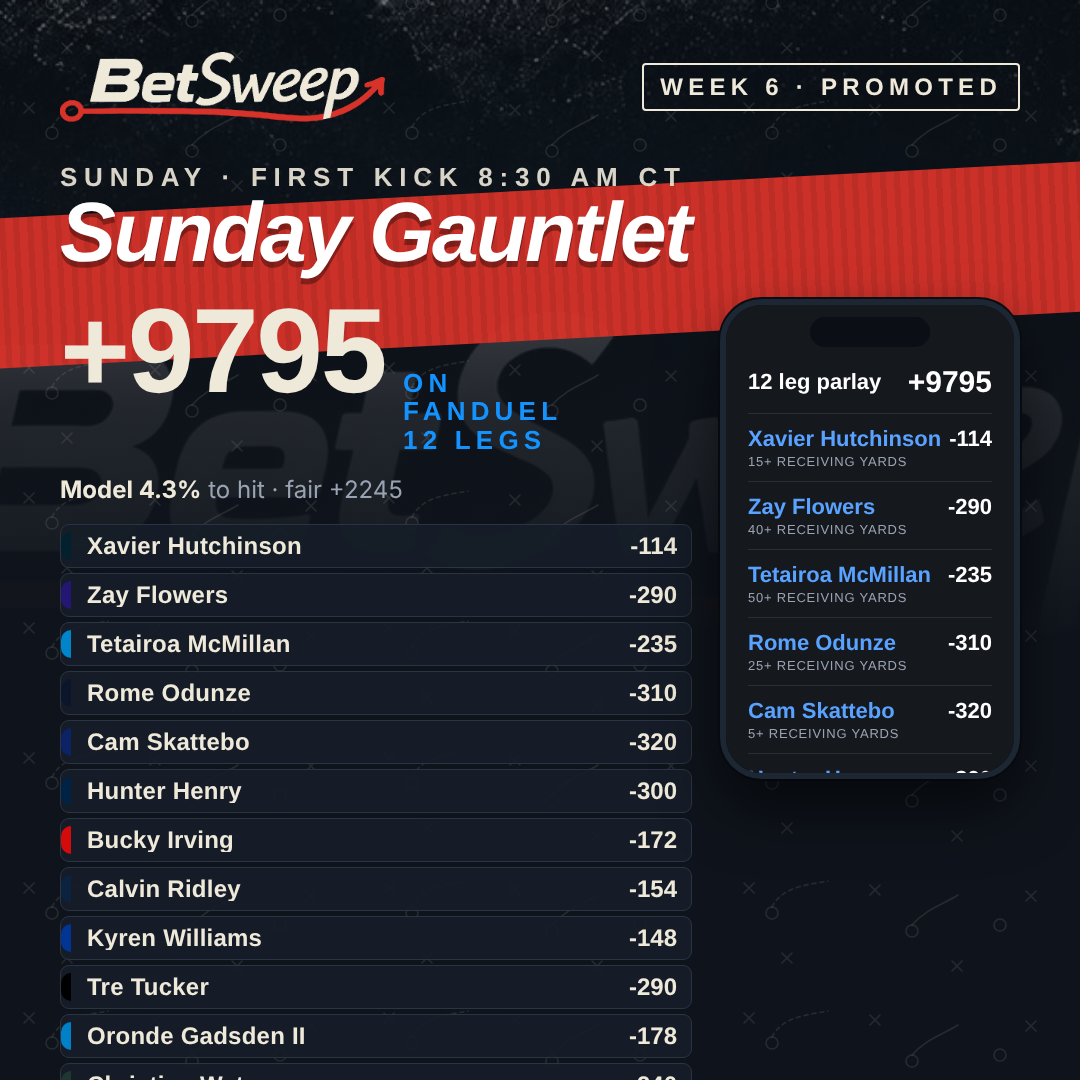
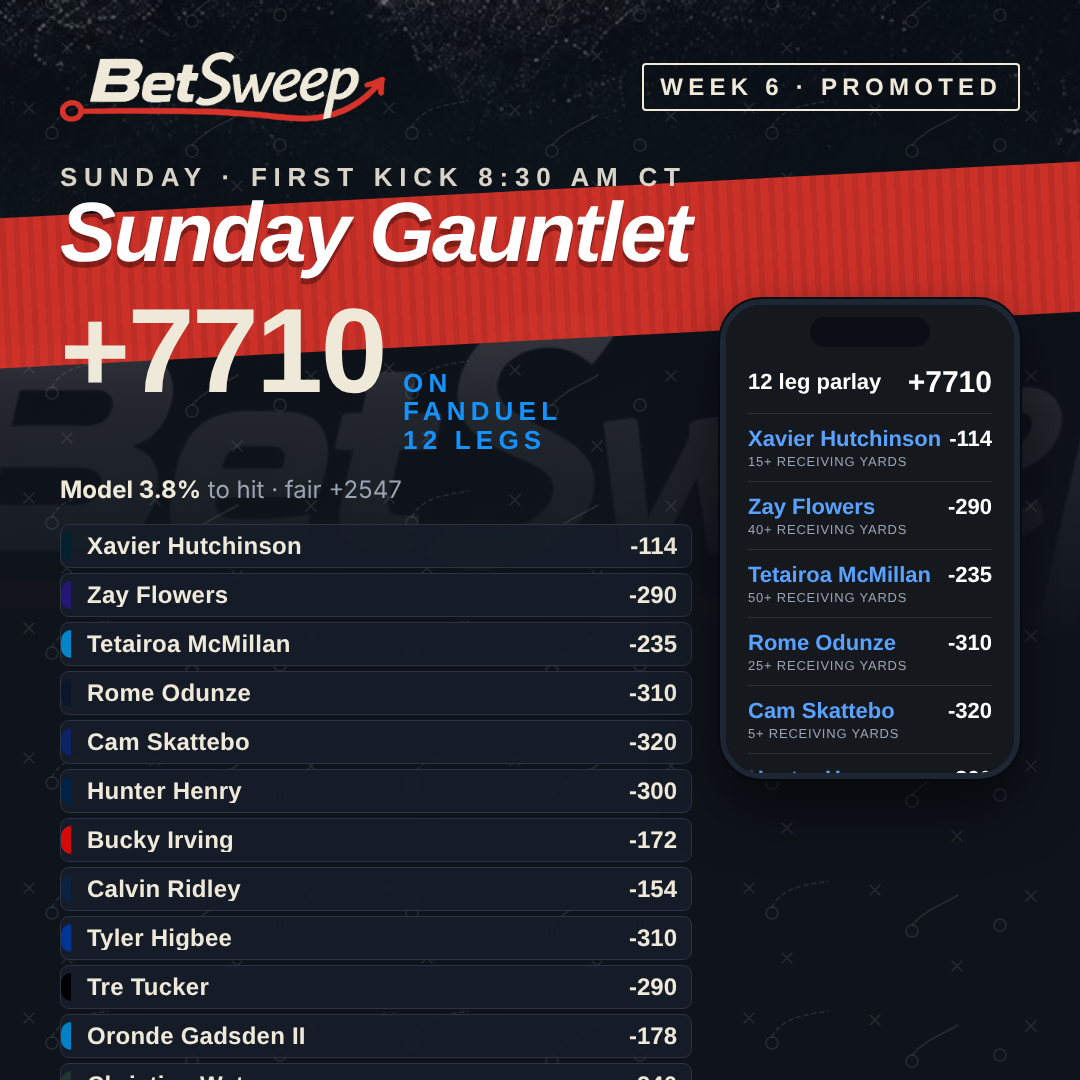
Gauntlet: Higbee 20+ in for Kyren 3+ rec (+7710)
Claude-Session: https://claude.ai/code/session_01Pqo4PUB5f8JqeHqFrErqwg

diff --git a/index.html b/index.html
@@ -179,10 +179,10 @@ body.compact .card:not(.expanded) > .tick:not([hidden]){display:grid}
 <section class="pitch"><div class="card"><img class="mark" src="/favicon.png" alt="">
  <h1>The model's picks, <span>graded against the sportsbooks</span> every week.</h1>
  <p class="lede">BetSweep projects every NFL skill player, prices every FanDuel prop against those projections, and shows you the receipts afterward. Boards land Thursday morning, refresh through Sunday's inactives, and get graded Tuesday.</p>
- <div class="stats"><span><b>Week 6</b> on the board</span><span><b>14</b> games</span><span><b>3,310</b> FanDuel legs priced</span><span>updated Sat 10/17 3:23 PM CT</span></div>
+ <div class="stats"><span><b>Week 6</b> on the board</span><span><b>14</b> games</span><span><b>3,310</b> FanDuel legs priced</span><span>updated Sat 10/17 3:24 PM CT</span></div>
  <div class="social"><a href="https://x.com/bet_sweep" target="_blank" rel="noopener">X <small>@bet_sweep</small></a><a href="https://www.instagram.com/bet_sweep" target="_blank" rel="noopener">Instagram <small>@bet_sweep</small></a></div>
 </div></section>
-<section class="sec" id="promo"><h2 class="t">Promoted bets</h2><div class="promos"><article class="promo" data-first-ko="1792353900000" data-last-ko="1792369200000"><div class="ph"><small>Promoted</small><span class="st" data-role="pst">Pregame</span></div><h3>Sunday TD 4</h3><div class="meta">Week 6 · 4 legs</div><ul class="pl"><li><b>Puka Nacua</b><span class="o">-170</span><small>anytime TD · Sun 3:05 PM · ARI #1 vs WR TDs</small><span class="mp">model 53%</span></li><li><b>Josh Allen</b><span class="o">-175</span><small>anytime TD · Sun 3:25 PM · LV #3 vs QB rush TDs</small><span class="mp">model 56%</span></li><li><b>Kenneth Walker III</b><span class="o">-170</span><small>anytime TD · Sun 3:25 PM · LAC #7 vs RB TDs</small><span class="mp">model 60%</span></li><li><b>Javonte Williams</b><span class="o">-220</span><small>anytime TD · Sun 7:20 PM · GB #2 vs RB TDs</small><span class="mp">model 54%</span></li></ul><div class="pf"><div class="big"><small>FanDuel</small>+477</div><div class="md"><b>Model 9.6%</b> to hit · fair +939<br>Snapshot at post time; prices move.</div></div><p class="cap">Four players walking into the defenses that give up their touchdown the most: Nacua vs ARI (#1 vs WR TDs), Allen at LV (#3 vs QB rush TDs), Walker vs LAC (#7, #3 last three), Javonte at GB (#4). 15-for-17 scoring this season between them.</p><div class="pa"><a class="fd" href="https://sportsbook.fanduel.com/addToBetslip?marketId[0]=42.616225575&amp;selectionId[0]=42127532&amp;marketId[1]=42.616211797&amp;selectionId[1]=12399650&amp;marketId[2]=42.615921213&amp;selectionId[2]=40845134&amp;marketId[3]=42.615900715&amp;selectionId[3]=37101846" target="_blank" rel="noopener">Bet it on FanDuel</a><a href="https://twitter.com/intent/tweet?text=Sunday%20TD%204%20%C2%B7%20FanDuel%20%2B477%0A%E2%80%A2%20Puka%20Nacua%20anytime%20TD%20%28-170%29%0A%E2%80%A2%20Josh%20Allen%20anytime%20TD%20%28-175%29%0A%E2%80%A2%20Kenneth%20Walker%20III%20anytime%20TD%20%28-170%29%0A%E2%80%A2%20Javonte%20Williams%20anytime%20TD%20%28-220%29%0A%0Abetsweep.co" target="_blank" rel="noopener">Share on X</a><a href="/promo/6-1-feed.png" download>Post 4:5</a><a href="/promo/6-1-square.png" download>Square</a><a href="/promo/6-1-story.png" download>Story</a></div></article><article class="promo" data-first-ko="1792330200000" data-last-ko="1792369200000"><div class="ph"><small>Promoted</small><span class="st" data-role="pst">Pregame</span></div><h3>Sunday Either/Or 11</h3><div class="meta">Week 6 · 11 legs</div><ul class="pl many"><li><b>Bhayshul Tuten or Woody Marks</b><span class="o">-220</span><small>either scores a TD · Sun 8:30 AM</small><span class="mp">model 63%</span></li><li><b>Rhamondre Stevenson or Garrett Wilson</b><span class="o">-310</span><small>either scores a TD · Sun 12:00 PM</small><span class="mp">model 58%</span></li><li><b>Bucky Irving or Jaylen Warren</b><span class="o">-210</span><small>either scores a TD · Sun 12:00 PM</small><span class="mp">model 67%</span></li><li><b>Cam Skattebo or Juwan Johnson</b><span class="o">-185</span><small>either scores a TD · Sun 12:00 PM</small><span class="mp">model 60%</span></li><li><b>Drake London or D&#x27;Andre Swift</b><span class="o">-475</span><small>either scores a TD · Sun 12:00 PM</small><span class="mp">model 71%</span></li><li><b>DeVonta Smith or Chuba Hubbard</b><span class="o">-195</span><small>either scores a TD · Sun 12:00 PM</small><span class="mp">model 67%</span></li><li><b>Harold Fannin Jr. or Derrick Henry</b><span class="o">-270</span><small>either scores a TD · Sun 12:00 PM</small><span class="mp">model 72%</span></li><li><b>Trey McBride or Michael Wilson</b><span class="o">-160</span><small>either scores a TD · Sun 3:05 PM</small><span class="mp">model 68%</span></li><li><b>Ashton Jeanty or James Cook</b><span class="o">-500</span><small>either scores a TD · Sun 3:25 PM</small><span class="mp">model 75%</span></li><li><b>Kenneth Walker III or Omarion Hampton</b><span class="o">-260</span><small>either scores a TD · Sun 3:25 PM</small><span class="mp">model 77%</span></li><li><b>Tucker Kraft or CeeDee Lamb</b><span class="o">-185</span><small>either scores a TD · Sun 7:20 PM</small><span class="mp">model 62%</span></li></ul><div class="pf"><div class="big"><small>FanDuel</small>+4466</div><div class="md"><b>Model 1.2%</b> to hit · fair +7957<br>Snapshot at post time; prices move.</div></div><p class="cap">One either/or touchdown from every Sunday game, each pair picked so one of the two is still the likely scorer whichever way the game goes. Eleven legs, +4466.</p><div class="pa"><a class="fd" href="https://sportsbook.fanduel.com/addToBetslip?shareCode=mR7QhDR" target="_blank" rel="noopener">Bet it on FanDuel</a><a href="https://twitter.com/intent/tweet?text=Sunday%20Either/Or%2011%20%C2%B7%20FanDuel%20%2B4466%0A%E2%80%A2%20Bhayshul%20Tuten%20or%20Woody%20Marks%20either%20scores%20a%20TD%20%28-220%29%0A%E2%80%A2%20Rhamondre%20Stevenson%20or%20Garrett%20Wilson%20either%20scores%20a%20TD%20%28-310%29%0A%E2%80%A2%20Bucky%20Irving%20or%20Jaylen%20Warren%20either%20scores%20a%20TD%20%28-210%29%0A%E2%80%A2%20Cam%20Skattebo%20or%20Juwan%20Johnson%20either%20scores%20a%20TD%20%28-185%29%0A%E2%80%A2%20Drake%20London%20or%20D%27Andre%20Swift%20either%20scores%20a%20TD%20%28-475%29%0A%E2%80%A2%20DeVonta%20Smith%20or%20Chuba%20Hubbard%20either%20scores%20a%20TD%20%28-195%29%0A%E2%80%A2%20Harold%20Fannin%20Jr.%20or%20Derrick%20Henry%20either%20scores%20a%20TD%20%28-270%29%0A%E2%80%A2%20Trey%20McBride%20or%20Michael%20Wilson%20either%20scores%20a%20TD%20%28-160%29%0A%E2%80%A2%20Ashton%20Jeanty%20or%20James%20Cook%20either%20scores%20a%20TD%20%28-500%29%0A%E2%80%A2%20Kenneth%20Walker%20III%20or%20Omarion%20Hampton%20either%20scores%20a%20TD%20%28-260%29%0A%E2%80%A2%20Tucker%20Kraft%20or%20CeeDee%20Lamb%20either%20scores%20a%20TD%20%28-185%29%0A%0Abetsweep.co" target="_blank" rel="noopener">Share on X</a><a href="/promo/6-2-feed.png" download>Post 4:5</a><a href="/promo/6-2-square.png" download>Square</a><a href="/promo/6-2-story.png" download>Story</a></div></article><article class="promo" data-first-ko="1792342800000" data-last-ko="1792355100000"><div class="ph"><small>Promoted</small><span class="st" data-role="pst">Pregame</span></div><h3>Sunday Floor 6</h3><div class="meta">Week 6 · 6 legs</div><ul class="pl"><li><b>Justice Hill</b><span class="o">-154</span><small>10+ rushing yards · Sun 12:00 PM</small><span class="mp">model 73%</span></li><li><b>Makai Lemon</b><span class="o">-205</span><small>2+ receptions · Sun 12:00 PM</small><span class="mp">model 73%</span></li><li><b>Elic Ayomanor</b><span class="o">-340</span><small>5+ receiving yards · Sun 12:00 PM</small><span class="mp">model 86%</span></li><li><b>Juwan Johnson</b><span class="o">-330</span><small>25+ receiving yards · Sun 12:00 PM</small><span class="mp">model 75%</span></li><li><b>Bucky Irving</b><span class="o">-290</span><small>5+ receiving yards · Sun 12:00 PM</small><span class="mp">model 78%</span></li><li><b>Cyrus Allen</b><span class="o">-154</span><small>10+ receiving yards · Sun 3:25 PM</small><span class="mp">model 30%</span></li></ul><div class="pf"><div class="big"><small>FanDuel</small>+786</div><div class="md"><b>Model 8.1%</b> to hit · fair +1137<br>Snapshot at post time; prices move.</div></div><p class="cap">Six legs, one game each, matchup first: Hill vs a #7 RB-rush defense, Lemon 2+ catches (4 of 5), Ayomanor 5+ (5 of 5), Juwan Johnson 25+ (4 of 5, all 53+), Irving 5+ receiving vs the #5 defense for RB catches, and the swing: Cyrus Allen into Rashee Rice&#x27;s and Tyquan Thornton&#x27;s snaps. Five the data likes, one we like.</p><div class="pa"><a class="fd" href="https://sportsbook.fanduel.com/addToBetslip?marketId[0]=42.617002810&amp;selectionId[0]=73482232&amp;marketId[1]=42.617048983&amp;selectionId[1]=102621408&amp;marketId[2]=42.616250683&amp;selectionId[2]=88090459&amp;marketId[3]=42.616234261&amp;selectionId[3]=41092174&amp;marketId[4]=42.616465975&amp;selectionId[4]=73619340&amp;marketId[5]=42.616848381&amp;selectionId[5]=102831608" target="_blank" rel="noopener">Bet it on FanDuel</a><a href="https://twitter.com/intent/tweet?text=Sunday%20Floor%206%20%C2%B7%20FanDuel%20%2B786%0A%E2%80%A2%20Justice%20Hill%2010%2B%20rushing%20yards%20%28-154%29%0A%E2%80%A2%20Makai%20Lemon%202%2B%20receptions%20%28-205%29%0A%E2%80%A2%20Elic%20Ayomanor%205%2B%20receiving%20yards%20%28-340%29%0A%E2%80%A2%20Juwan%20Johnson%2025%2B%20receiving%20yards%20%28-330%29%0A%E2%80%A2%20Bucky%20Irving%205%2B%20receiving%20yards%20%28-290%29%0A%E2%80%A2%20Cyrus%20Allen%2010%2B%20receiving%20yards%20%28-154%29%0A%0Abetsweep.co" target="_blank" rel="noopener">Share on X</a><a href="/promo/6-3-feed.png" download>Post 4:5</a><a href="/promo/6-3-square.png" download>Square</a><a href="/promo/6-3-story.png" download>Story</a></div></article><article class="promo" data-first-ko="1792330200000" data-last-ko="1792369200000"><div class="ph"><small>Promoted</small><span class="st" data-role="pst">Pregame</span></div><h3>Sunday Gauntlet</h3><div class="meta">Week 6 · 12 legs</div><ul class="pl many"><li><b>Xavier Hutchinson</b><span class="o">-114</span><small>15+ receiving yards · Sun 8:30 AM</small><span class="mp">model 74%</span></li><li><b>Zay Flowers</b><span class="o">-290</span><small>40+ receiving yards · Sun 12:00 PM</small><span class="mp">model 88%</span></li><li><b>Tetairoa McMillan</b><span class="o">-235</span><small>50+ receiving yards · Sun 12:00 PM</small><span class="mp">model 72%</span></li><li><b>Rome Odunze</b><span class="o">-310</span><small>25+ receiving yards · Sun 12:00 PM</small><span class="mp">model 79%</span></li><li><b>Cam Skattebo</b><span class="o">-320</span><small>5+ receiving yards · Sun 12:00 PM</small><span class="mp">model 78%</span></li><li><b>Hunter Henry</b><span class="o">-300</span><small>20+ receiving yards · Sun 12:00 PM</small><span class="mp">model 72%</span></li><li><b>Bucky Irving</b><span class="o">-172</span><small>2+ receptions · Sun 12:00 PM</small><span class="mp">model 74%</span></li><li><b>Calvin Ridley</b><span class="o">-154</span><small>10+ receiving yards · Sun 12:00 PM</small><span class="mp">model 79%</span></li><li><b>Kyren Williams</b><span class="o">-148</span><small>3+ receptions · Sun 3:05 PM</small><span class="mp">model 82%</span></li><li><b>Tre Tucker</b><span class="o">-290</span><small>25+ receiving yards · Sun 3:25 PM</small><span class="mp">model 75%</span></li><li><b>Oronde Gadsden II</b><span class="o">-178</span><small>10+ receiving yards · Sun 3:25 PM</small><span class="mp">model 80%</span></li><li><b>Christian Watson</b><span class="o">-340</span><small>50+ receiving yards · Sun 7:20 PM</small><span class="mp">model 72%</span></li></ul><div class="pf"><div class="big"><small>FanDuel</small>+9795</div><div class="md"><b>Model 4.3%</b> to hit · fair +2245<br>Snapshot at post time; prices move.</div></div><p class="cap">Twelve games, twelve legs, one from each. Every leg had to clear the same bar: model 70%+, a matchup or a projection well above the line, hit in 3 of the last 5, no flags. Likely legs stacked into a moonshot.</p><div class="pa"><a class="fd" href="https://sportsbook.fanduel.com/addToBetslip?marketId[0]=42.616785753&amp;selectionId[0]=41075117&amp;marketId[1]=42.617002812&amp;selectionId[1]=49181571&amp;marketId[2]=42.616529867&amp;selectionId[2]=50573817&amp;marketId[3]=42.616120846&amp;selectionId[3]=48587070&amp;marketId[4]=42.616234258&amp;selectionId[4]=88246532&amp;marketId[5]=42.616815477&amp;selectionId[5]=73619949&amp;marketId[6]=42.616465976&amp;selectionId[6]=49541847&amp;marketId[7]=42.616250682&amp;selectionId[7]=71942749&amp;marketId[8]=42.616234766&amp;selectionId[8]=61449492&amp;marketId[9]=42.616214164&amp;selectionId[9]=49640102&amp;marketId[10]=42.616849025&amp;selectionId[10]=89154789&amp;marketId[11]=42.615901996&amp;selectionId[11]=48614471" target="_blank" rel="noopener">Bet it on FanDuel</a><a href="https://twitter.com/intent/tweet?text=Sunday%20Gauntlet%20%C2%B7%20FanDuel%20%2B9795%0A%E2%80%A2%20Xavier%20Hutchinson%2015%2B%20receiving%20yards%20%28-114%29%0A%E2%80%A2%20Zay%20Flowers%2040%2B%20receiving%20yards%20%28-290%29%0A%E2%80%A2%20Tetairoa%20McMillan%2050%2B%20receiving%20yards%20%28-235%29%0A%E2%80%A2%20Rome%20Odunze%2025%2B%20receiving%20yards%20%28-310%29%0A%E2%80%A2%20Cam%20Skattebo%205%2B%20receiving%20yards%20%28-320%29%0A%E2%80%A2%20Hunter%20Henry%2020%2B%20receiving%20yards%20%28-300%29%0A%E2%80%A2%20Bucky%20Irving%202%2B%20receptions%20%28-172%29%0A%E2%80%A2%20Calvin%20Ridley%2010%2B%20receiving%20yards%20%28-154%29%0A%E2%80%A2%20Kyren%20Williams%203%2B%20receptions%20%28-148%29%0A%E2%80%A2%20Tre%20Tucker%2025%2B%20receiving%20yards%20%28-290%29%0A%E2%80%A2%20Oronde%20Gadsden%20II%2010%2B%20receiving%20yards%20%28-178%29%0A%E2%80%A2%20Christian%20Watson%2050%2B%20receiving%20yards%20%28-340%29%0A%0Abetsweep.co" target="_blank" rel="noopener">Share on X</a><a href="/promo/6-4-feed.png" download>Post 4:5</a><a href="/promo/6-4-square.png" download>Square</a><a href="/promo/6-4-story.png" download>Story</a></div></article></div><p class="none" style="margin-top:8px;font-size:12.5px">The slips we post on X and Instagram, graded Tuesday like everything else. One tap loads the whole slip on FanDuel.</p></section>
+<section class="sec" id="promo"><h2 class="t">Promoted bets</h2><div class="promos"><article class="promo" data-first-ko="1792353900000" data-last-ko="1792369200000"><div class="ph"><small>Promoted</small><span class="st" data-role="pst">Pregame</span></div><h3>Sunday TD 4</h3><div class="meta">Week 6 · 4 legs</div><ul class="pl"><li><b>Puka Nacua</b><span class="o">-170</span><small>anytime TD · Sun 3:05 PM · ARI #1 vs WR TDs</small><span class="mp">model 53%</span></li><li><b>Josh Allen</b><span class="o">-175</span><small>anytime TD · Sun 3:25 PM · LV #3 vs QB rush TDs</small><span class="mp">model 56%</span></li><li><b>Kenneth Walker III</b><span class="o">-170</span><small>anytime TD · Sun 3:25 PM · LAC #7 vs RB TDs</small><span class="mp">model 60%</span></li><li><b>Javonte Williams</b><span class="o">-220</span><small>anytime TD · Sun 7:20 PM · GB #2 vs RB TDs</small><span class="mp">model 54%</span></li></ul><div class="pf"><div class="big"><small>FanDuel</small>+477</div><div class="md"><b>Model 9.6%</b> to hit · fair +939<br>Snapshot at post time; prices move.</div></div><p class="cap">Four players walking into the defenses that give up their touchdown the most: Nacua vs ARI (#1 vs WR TDs), Allen at LV (#3 vs QB rush TDs), Walker vs LAC (#7, #3 last three), Javonte at GB (#4). 15-for-17 scoring this season between them.</p><div class="pa"><a class="fd" href="https://sportsbook.fanduel.com/addToBetslip?marketId[0]=42.616225575&amp;selectionId[0]=42127532&amp;marketId[1]=42.616211797&amp;selectionId[1]=12399650&amp;marketId[2]=42.615921213&amp;selectionId[2]=40845134&amp;marketId[3]=42.615900715&amp;selectionId[3]=37101846" target="_blank" rel="noopener">Bet it on FanDuel</a><a href="https://twitter.com/intent/tweet?text=Sunday%20TD%204%20%C2%B7%20FanDuel%20%2B477%0A%E2%80%A2%20Puka%20Nacua%20anytime%20TD%20%28-170%29%0A%E2%80%A2%20Josh%20Allen%20anytime%20TD%20%28-175%29%0A%E2%80%A2%20Kenneth%20Walker%20III%20anytime%20TD%20%28-170%29%0A%E2%80%A2%20Javonte%20Williams%20anytime%20TD%20%28-220%29%0A%0Abetsweep.co" target="_blank" rel="noopener">Share on X</a><a href="/promo/6-1-feed.png" download>Post 4:5</a><a href="/promo/6-1-square.png" download>Square</a><a href="/promo/6-1-story.png" download>Story</a></div></article><article class="promo" data-first-ko="1792330200000" data-last-ko="1792369200000"><div class="ph"><small>Promoted</small><span class="st" data-role="pst">Pregame</span></div><h3>Sunday Either/Or 11</h3><div class="meta">Week 6 · 11 legs</div><ul class="pl many"><li><b>Bhayshul Tuten or Woody Marks</b><span class="o">-220</span><small>either scores a TD · Sun 8:30 AM</small><span class="mp">model 63%</span></li><li><b>Rhamondre Stevenson or Garrett Wilson</b><span class="o">-310</span><small>either scores a TD · Sun 12:00 PM</small><span class="mp">model 58%</span></li><li><b>Bucky Irving or Jaylen Warren</b><span class="o">-210</span><small>either scores a TD · Sun 12:00 PM</small><span class="mp">model 67%</span></li><li><b>Cam Skattebo or Juwan Johnson</b><span class="o">-185</span><small>either scores a TD · Sun 12:00 PM</small><span class="mp">model 60%</span></li><li><b>Drake London or D&#x27;Andre Swift</b><span class="o">-475</span><small>either scores a TD · Sun 12:00 PM</small><span class="mp">model 71%</span></li><li><b>DeVonta Smith or Chuba Hubbard</b><span class="o">-195</span><small>either scores a TD · Sun 12:00 PM</small><span class="mp">model 67%</span></li><li><b>Harold Fannin Jr. or Derrick Henry</b><span class="o">-270</span><small>either scores a TD · Sun 12:00 PM</small><span class="mp">model 72%</span></li><li><b>Trey McBride or Michael Wilson</b><span class="o">-160</span><small>either scores a TD · Sun 3:05 PM</small><span class="mp">model 68%</span></li><li><b>Ashton Jeanty or James Cook</b><span class="o">-500</span><small>either scores a TD · Sun 3:25 PM</small><span class="mp">model 75%</span></li><li><b>Kenneth Walker III or Omarion Hampton</b><span class="o">-260</span><small>either scores a TD · Sun 3:25 PM</small><span class="mp">model 77%</span></li><li><b>Tucker Kraft or CeeDee Lamb</b><span class="o">-185</span><small>either scores a TD · Sun 7:20 PM</small><span class="mp">model 62%</span></li></ul><div class="pf"><div class="big"><small>FanDuel</small>+4466</div><div class="md"><b>Model 1.2%</b> to hit · fair +7957<br>Snapshot at post time; prices move.</div></div><p class="cap">One either/or touchdown from every Sunday game, each pair picked so one of the two is still the likely scorer whichever way the game goes. Eleven legs, +4466.</p><div class="pa"><a class="fd" href="https://sportsbook.fanduel.com/addToBetslip?shareCode=mR7QhDR" target="_blank" rel="noopener">Bet it on FanDuel</a><a href="https://twitter.com/intent/tweet?text=Sunday%20Either/Or%2011%20%C2%B7%20FanDuel%20%2B4466%0A%E2%80%A2%20Bhayshul%20Tuten%20or%20Woody%20Marks%20either%20scores%20a%20TD%20%28-220%29%0A%E2%80%A2%20Rhamondre%20Stevenson%20or%20Garrett%20Wilson%20either%20scores%20a%20TD%20%28-310%29%0A%E2%80%A2%20Bucky%20Irving%20or%20Jaylen%20Warren%20either%20scores%20a%20TD%20%28-210%29%0A%E2%80%A2%20Cam%20Skattebo%20or%20Juwan%20Johnson%20either%20scores%20a%20TD%20%28-185%29%0A%E2%80%A2%20Drake%20London%20or%20D%27Andre%20Swift%20either%20scores%20a%20TD%20%28-475%29%0A%E2%80%A2%20DeVonta%20Smith%20or%20Chuba%20Hubbard%20either%20scores%20a%20TD%20%28-195%29%0A%E2%80%A2%20Harold%20Fannin%20Jr.%20or%20Derrick%20Henry%20either%20scores%20a%20TD%20%28-270%29%0A%E2%80%A2%20Trey%20McBride%20or%20Michael%20Wilson%20either%20scores%20a%20TD%20%28-160%29%0A%E2%80%A2%20Ashton%20Jeanty%20or%20James%20Cook%20either%20scores%20a%20TD%20%28-500%29%0A%E2%80%A2%20Kenneth%20Walker%20III%20or%20Omarion%20Hampton%20either%20scores%20a%20TD%20%28-260%29%0A%E2%80%A2%20Tucker%20Kraft%20or%20CeeDee%20Lamb%20either%20scores%20a%20TD%20%28-185%29%0A%0Abetsweep.co" target="_blank" rel="noopener">Share on X</a><a href="/promo/6-2-feed.png" download>Post 4:5</a><a href="/promo/6-2-square.png" download>Square</a><a href="/promo/6-2-story.png" download>Story</a></div></article><article class="promo" data-first-ko="1792342800000" data-last-ko="1792355100000"><div class="ph"><small>Promoted</small><span class="st" data-role="pst">Pregame</span></div><h3>Sunday Floor 6</h3><div class="meta">Week 6 · 6 legs</div><ul class="pl"><li><b>Justice Hill</b><span class="o">-154</span><small>10+ rushing yards · Sun 12:00 PM</small><span class="mp">model 73%</span></li><li><b>Makai Lemon</b><span class="o">-205</span><small>2+ receptions · Sun 12:00 PM</small><span class="mp">model 73%</span></li><li><b>Elic Ayomanor</b><span class="o">-340</span><small>5+ receiving yards · Sun 12:00 PM</small><span class="mp">model 86%</span></li><li><b>Juwan Johnson</b><span class="o">-330</span><small>25+ receiving yards · Sun 12:00 PM</small><span class="mp">model 75%</span></li><li><b>Bucky Irving</b><span class="o">-290</span><small>5+ receiving yards · Sun 12:00 PM</small><span class="mp">model 78%</span></li><li><b>Cyrus Allen</b><span class="o">-154</span><small>10+ receiving yards · Sun 3:25 PM</small><span class="mp">model 30%</span></li></ul><div class="pf"><div class="big"><small>FanDuel</small>+786</div><div class="md"><b>Model 8.1%</b> to hit · fair +1137<br>Snapshot at post time; prices move.</div></div><p class="cap">Six legs, one game each, matchup first: Hill vs a #7 RB-rush defense, Lemon 2+ catches (4 of 5), Ayomanor 5+ (5 of 5), Juwan Johnson 25+ (4 of 5, all 53+), Irving 5+ receiving vs the #5 defense for RB catches, and the swing: Cyrus Allen into Rashee Rice&#x27;s and Tyquan Thornton&#x27;s snaps. Five the data likes, one we like.</p><div class="pa"><a class="fd" href="https://sportsbook.fanduel.com/addToBetslip?marketId[0]=42.617002810&amp;selectionId[0]=73482232&amp;marketId[1]=42.617048983&amp;selectionId[1]=102621408&amp;marketId[2]=42.616250683&amp;selectionId[2]=88090459&amp;marketId[3]=42.616234261&amp;selectionId[3]=41092174&amp;marketId[4]=42.616465975&amp;selectionId[4]=73619340&amp;marketId[5]=42.616848381&amp;selectionId[5]=102831608" target="_blank" rel="noopener">Bet it on FanDuel</a><a href="https://twitter.com/intent/tweet?text=Sunday%20Floor%206%20%C2%B7%20FanDuel%20%2B786%0A%E2%80%A2%20Justice%20Hill%2010%2B%20rushing%20yards%20%28-154%29%0A%E2%80%A2%20Makai%20Lemon%202%2B%20receptions%20%28-205%29%0A%E2%80%A2%20Elic%20Ayomanor%205%2B%20receiving%20yards%20%28-340%29%0A%E2%80%A2%20Juwan%20Johnson%2025%2B%20receiving%20yards%20%28-330%29%0A%E2%80%A2%20Bucky%20Irving%205%2B%20receiving%20yards%20%28-290%29%0A%E2%80%A2%20Cyrus%20Allen%2010%2B%20receiving%20yards%20%28-154%29%0A%0Abetsweep.co" target="_blank" rel="noopener">Share on X</a><a href="/promo/6-3-feed.png" download>Post 4:5</a><a href="/promo/6-3-square.png" download>Square</a><a href="/promo/6-3-story.png" download>Story</a></div></article><article class="promo" data-first-ko="1792330200000" data-last-ko="1792369200000"><div class="ph"><small>Promoted</small><span class="st" data-role="pst">Pregame</span></div><h3>Sunday Gauntlet</h3><div class="meta">Week 6 · 12 legs</div><ul class="pl many"><li><b>Xavier Hutchinson</b><span class="o">-114</span><small>15+ receiving yards · Sun 8:30 AM</small><span class="mp">model 74%</span></li><li><b>Zay Flowers</b><span class="o">-290</span><small>40+ receiving yards · Sun 12:00 PM</small><span class="mp">model 88%</span></li><li><b>Tetairoa McMillan</b><span class="o">-235</span><small>50+ receiving yards · Sun 12:00 PM</small><span class="mp">model 72%</span></li><li><b>Rome Odunze</b><span class="o">-310</span><small>25+ receiving yards · Sun 12:00 PM</small><span class="mp">model 79%</span></li><li><b>Cam Skattebo</b><span class="o">-320</span><small>5+ receiving yards · Sun 12:00 PM</small><span class="mp">model 78%</span></li><li><b>Hunter Henry</b><span class="o">-300</span><small>20+ receiving yards · Sun 12:00 PM</small><span class="mp">model 72%</span></li><li><b>Bucky Irving</b><span class="o">-172</span><small>2+ receptions · Sun 12:00 PM</small><span class="mp">model 74%</span></li><li><b>Calvin Ridley</b><span class="o">-154</span><small>10+ receiving yards · Sun 12:00 PM</small><span class="mp">model 79%</span></li><li><b>Tyler Higbee</b><span class="o">-310</span><small>20+ receiving yards · Sun 3:05 PM</small><span class="mp">model 72%</span></li><li><b>Tre Tucker</b><span class="o">-290</span><small>25+ receiving yards · Sun 3:25 PM</small><span class="mp">model 75%</span></li><li><b>Oronde Gadsden II</b><span class="o">-178</span><small>10+ receiving yards · Sun 3:25 PM</small><span class="mp">model 80%</span></li><li><b>Christian Watson</b><span class="o">-340</span><small>50+ receiving yards · Sun 7:20 PM</small><span class="mp">model 72%</span></li></ul><div class="pf"><div class="big"><small>FanDuel</small>+7710</div><div class="md"><b>Model 3.8%</b> to hit · fair +2547<br>Snapshot at post time; prices move.</div></div><p class="cap">Twelve games, twelve legs, one from each. Every leg had to clear the same bar: model 70%+, a matchup or a projection well above the line, hit in 3 of the last 5, no flags. Likely legs stacked into a moonshot.</p><div class="pa"><a class="fd" href="https://sportsbook.fanduel.com/addToBetslip?marketId[0]=42.616785753&amp;selectionId[0]=41075117&amp;marketId[1]=42.617002812&amp;selectionId[1]=49181571&amp;marketId[2]=42.616529867&amp;selectionId[2]=50573817&amp;marketId[3]=42.616120846&amp;selectionId[3]=48587070&amp;marketId[4]=42.616234258&amp;selectionId[4]=88246532&amp;marketId[5]=42.616815477&amp;selectionId[5]=73619949&amp;marketId[6]=42.616465976&amp;selectionId[6]=49541847&amp;marketId[7]=42.616250682&amp;selectionId[7]=71942749&amp;marketId[8]=42.616234749&amp;selectionId[8]=78711104&amp;marketId[9]=42.616214164&amp;selectionId[9]=49640102&amp;marketId[10]=42.616849025&amp;selectionId[10]=89154789&amp;marketId[11]=42.615901996&amp;selectionId[11]=48614471" target="_blank" rel="noopener">Bet it on FanDuel</a><a href="https://twitter.com/intent/tweet?text=Sunday%20Gauntlet%20%C2%B7%20FanDuel%20%2B7710%0A%E2%80%A2%20Xavier%20Hutchinson%2015%2B%20receiving%20yards%20%28-114%29%0A%E2%80%A2%20Zay%20Flowers%2040%2B%20receiving%20yards%20%28-290%29%0A%E2%80%A2%20Tetairoa%20McMillan%2050%2B%20receiving%20yards%20%28-235%29%0A%E2%80%A2%20Rome%20Odunze%2025%2B%20receiving%20yards%20%28-310%29%0A%E2%80%A2%20Cam%20Skattebo%205%2B%20receiving%20yards%20%28-320%29%0A%E2%80%A2%20Hunter%20Henry%2020%2B%20receiving%20yards%20%28-300%29%0A%E2%80%A2%20Bucky%20Irving%202%2B%20receptions%20%28-172%29%0A%E2%80%A2%20Calvin%20Ridley%2010%2B%20receiving%20yards%20%28-154%29%0A%E2%80%A2%20Tyler%20Higbee%2020%2B%20receiving%20yards%20%28-310%29%0A%E2%80%A2%20Tre%20Tucker%2025%2B%20receiving%20yards%20%28-290%29%0A%E2%80%A2%20Oronde%20Gadsden%20II%2010%2B%20receiving%20yards%20%28-178%29%0A%E2%80%A2%20Christian%20Watson%2050%2B%20receiving%20yards%20%28-340%29%0A%0Abetsweep.co" target="_blank" rel="noopener">Share on X</a><a href="/promo/6-4-feed.png" download>Post 4:5</a><a href="/promo/6-4-square.png" download>Square</a><a href="/promo/6-4-story.png" download>Story</a></div></article></div><p class="none" style="margin-top:8px;font-size:12.5px">The slips we post on X and Instagram, graded Tuesday like everything else. One tap loads the whole slip on FanDuel.</p></section>
 <section class="sec" id="plays"><h2 class="t">The model's top plays this week</h2><div class="plays"><article class="play lead" data-gid="HOU-JAX" data-ko="1792330200000"><div class="who"><b>Chris Rodriguez Jr.</b><small>RB · JAX vs HOU · Sun 8:30 AM</small></div><div class="what">16+ rushing yards<span class="odds">-114</span></div><div class="nums"><span><i>Model</i>66%</span><span><i>Price needs</i>53%</span><span class="edge pos"><i>Edge</i>+12</span></div><div class="foot"><span class="hist info">3/5 this season</span><a class="more" href="/build/#g-HOU-JAX">Builder →</a><a class="fdb" href="https://sportsbook.fanduel.com/addToBetslip?marketId=42.615817716&amp;selectionId=41073257" target="_blank" rel="noopener">Add to FanDuel</a></div></article><article class="play " data-gid="ARI-LA" data-ko="1792353900000"><div class="who"><b>Kyren Williams</b><small>RB · LA vs ARI · Sun 3:05 PM</small></div><div class="what">10+ longest reception<span class="odds">-170</span></div><div class="nums"><span><i>Model</i>74%</span><span><i>Price needs</i>63%</span><span class="edge pos"><i>Edge</i>+11</span></div><div class="foot"><span class="hist good">4/5 this season</span><a class="more" href="/build/#g-ARI-LA">Builder →</a><a class="fdb" href="https://sportsbook.fanduel.com/addToBetslip?marketId=42.616234655&amp;selectionId=37101838" target="_blank" rel="noopener">Add to FanDuel</a></div></article><article class="play " data-gid="PIT-TB" data-ko="1792342800000"><div class="who"><b>Bucky Irving</b><small>RB · TB vs PIT · Sun 12:00 PM</small></div><div class="what">2+ receptions<span class="odds">-172</span></div><div class="nums"><span><i>Model</i>74%</span><span><i>Price needs</i>63%</span><span class="edge pos"><i>Edge</i>+11</span></div><div class="foot"><span class="hist good">4/5 this season</span><a class="more" href="/build/#g-PIT-TB">Builder →</a><a class="fdb" href="https://sportsbook.fanduel.com/addToBetslip?marketId=42.616465976&amp;selectionId=49541847" target="_blank" rel="noopener">Add to FanDuel</a></div></article><article class="play " data-gid="BUF-LV" data-ko="1792355100000"><div class="who"><b>Mike Washington Jr.</b><small>RB · LV vs BUF · Sun 3:25 PM</small></div><div class="what">15+ rushing yards<span class="odds">-114</span></div><div class="nums"><span><i>Model</i>63%</span><span><i>Price needs</i>53%</span><span class="edge pos"><i>Edge</i>+10</span></div><div class="foot"><span class="hist info">3/5 this season</span><a class="more" href="/build/#g-BUF-LV">Builder →</a><a class="fdb" href="https://sportsbook.fanduel.com/addToBetslip?marketId=42.616214153&amp;selectionId=102723544" target="_blank" rel="noopener">Add to FanDuel</a></div></article><article class="play " data-gid="HOU-JAX" data-ko="1792330200000"><div class="who"><b>Dalton Schultz</b><small>TE · HOU vs JAX · Sun 8:30 AM</small></div><div class="what">3+ receptions<span class="odds">-260</span></div><div class="nums"><span><i>Model</i>81%</span><span><i>Price needs</i>72%</span><span class="edge pos"><i>Edge</i>+9</span></div><div class="foot"><span class="hist good">4/5 this season</span><a class="more" href="/build/#g-HOU-JAX">Builder →</a><a class="fdb" href="https://sportsbook.fanduel.com/addToBetslip?marketId=42.615828437&amp;selectionId=61437979" target="_blank" rel="noopener">Add to FanDuel</a></div></article><article class="play " data-gid="BAL-CLE" data-ko="1792342800000"><div class="who"><b>Zay Flowers</b><small>WR · BAL vs CLE · Sun 12:00 PM</small></div><div class="what">20+ longest reception<span class="odds">-160</span></div><div class="nums"><span><i>Model</i>69%</span><span><i>Price needs</i>62%</span><span class="edge pos"><i>Edge</i>+7</span></div><div class="foot"><span class="hist info">3/4 this season</span><a class="more" href="/build/#g-BAL-CLE">Builder →</a><a class="fdb" href="https://sportsbook.fanduel.com/addToBetslip?marketId=42.616397629&amp;selectionId=38093936" target="_blank" rel="noopener">Add to FanDuel</a></div></article><article class="play " data-gid="ARI-LA" data-ko="1792353900000"><div class="who"><b>Jacoby Brissett</b><small>QB · ARI vs LA · Sun 3:05 PM</small></div><div class="what">7+ rushing yards<span class="odds">-114</span></div><div class="nums"><span><i>Model</i>60%</span><span><i>Price needs</i>53%</span><span class="edge pos"><i>Edge</i>+7</span></div><div class="foot"><span class="hist good">4/5 this season</span><a class="more" href="/build/#g-ARI-LA">Builder →</a><a class="fdb" href="https://sportsbook.fanduel.com/addToBetslip?marketId=42.616836067&amp;selectionId=14942497" target="_blank" rel="noopener">Add to FanDuel</a></div></article><article class="play " data-gid="ATL-CHI" data-ko="1792342800000"><div class="who"><b>Kalif Raymond</b><small>WR · CHI vs ATL · Sun 12:00 PM</small></div><div class="what">15+ longest reception<span class="odds">-120</span></div><div class="nums"><span><i>Model</i>61%</span><span><i>Price needs</i>55%</span><span class="edge pos"><i>Edge</i>+7</span></div><div class="foot"><span class="hist info">3/5 this season</span><a class="more" href="/build/#g-ATL-CHI">Builder →</a><a class="fdb" href="https://sportsbook.fanduel.com/addToBetslip?marketId=42.616092697&amp;selectionId=14783655" target="_blank" rel="noopener">Add to FanDuel</a></div></article></div><p class="none allstarted" hidden>Every top play has kicked off. The <a href="/live/" style="color:var(--ink)">Live page</a> tracks what is still open; the next slate's plays land after the next rebuild.</p><p class="none" style="margin-top:10px;font-size:12.5px">From the sheet's Best Legs: strong-value lines with no warnings, best line per player. Model % is the projected hit rate; "price needs" is what FanDuel's odds imply; edge is the gap in points.</p></section>
 <section class="sec"><h2 class="t">Also on the radar</h2><div class="subt">Anytime touchdown</div><div class="plays"><article class="play " data-gid="KC-LAC" data-ko="1792355100000"><div class="who"><b>Omarion Hampton</b><small>RB · LAC vs KC · Sun 3:25 PM</small></div><div class="what">Anytime TD<span class="odds">+280</span></div><div class="nums"><span><i>Model</i>39%</span><span><i>Price needs</i>26%</span><span class="edge pos"><i>Edge</i>+13</span></div><div class="foot"><span class="hist info">3/5 this season</span><a class="more" href="/build/#g-KC-LAC">Builder →</a><a class="fdb" href="https://sportsbook.fanduel.com/addToBetslip?marketId=42.615921213&amp;selectionId=48700658" target="_blank" rel="noopener">Add to FanDuel</a></div></article><article class="play " data-gid="PIT-TB" data-ko="1792342800000"><div class="who"><b>Rico Dowdle</b><small>RB · PIT vs TB · Sun 12:00 PM</small></div><div class="what">Anytime TD<span class="odds">+320</span></div><div class="nums"><span><i>Model</i>30%</span><span><i>Price needs</i>24%</span><span class="edge pos"><i>Edge</i>+6</span></div><div class="foot"><a class="more" href="/build/#g-PIT-TB">Builder →</a><a class="fdb" href="https://sportsbook.fanduel.com/addToBetslip?marketId=42.616419379&amp;selectionId=35949997" target="_blank" rel="noopener">Add to FanDuel</a></div></article><article class="play " data-gid="ARI-LA" data-ko="1792353900000"><div class="who"><b>Trey McBride</b><small>TE · ARI vs LA · Sun 3:05 PM</small></div><div class="what">Anytime TD<span class="odds">+145</span></div><div class="nums"><span><i>Model</i>47%</span><span><i>Price needs</i>41%</span><span class="edge pos"><i>Edge</i>+6</span></div><div class="foot"><span class="hist info">3/5 this season</span><a class="more" href="/build/#g-ARI-LA">Builder →</a><a class="fdb" href="https://sportsbook.fanduel.com/addToBetslip?marketId=42.616225575&amp;selectionId=43845465" target="_blank" rel="noopener">Add to FanDuel</a></div></article><article class="play " data-gid="CAR-PHI" data-ko="1792342800000"><div class="who"><b>Carson Steele</b><small>RB · PHI vs CAR · Sun 12:00 PM</small></div><div class="what">Anytime TD<span class="odds">+410</span></div><div class="nums"><span><i>Model</i>25%</span><span><i>Price needs</i>20%</span><span class="edge pos"><i>Edge</i>+6</span></div><div class="foot"><a class="more" href="/build/#g-CAR-PHI">Builder →</a><a class="fdb" href="https://sportsbook.fanduel.com/addToBetslip?marketId=42.616394506&amp;selectionId=49913957" target="_blank" rel="noopener">Add to FanDuel</a></div></article></div><p class="none allstarted" hidden>All kicked off.</p><div class="subt">Game lines the model disagrees with</div><div class="plays"><article class="play gl" data-gid="CAR-PHI" data-ko="1792342800000"><div class="who"><b>Over 38.5</b><small>CAR @ PHI · Sun 12:00 PM</small></div><div class="what">Total<span class="odds">-115</span></div><div class="nums"><span><i>Model</i>65%</span><span><i>Price needs</i>53%</span><span class="edge pos"><i>Edge</i>+12</span></div><div class="foot"><a class="more" href="/boards/#g-CAR-PHI">Board →</a></div></article><article class="play gl" data-gid="ARI-LA" data-ko="1792353900000"><div class="who"><b>Cardinals ML</b><small>ARI @ LA · Sun 3:05 PM</small></div><div class="what">ML<span class="odds">+560</span></div><div class="nums"><span><i>Model</i>26%</span><span><i>Price needs</i>15%</span><span class="edge pos"><i>Edge</i>+11</span></div><div class="foot"><a class="more" href="/boards/#g-ARI-LA">Board →</a></div></article><article class="play gl" data-gid="BAL-CLE" data-ko="1792342800000"><div class="who"><b>Over 39.5</b><small>BAL @ CLE · Sun 12:00 PM</small></div><div class="what">Total<span class="odds">-105</span></div><div class="nums"><span><i>Model</i>61%</span><span><i>Price needs</i>51%</span><span class="edge pos"><i>Edge</i>+10</span></div><div class="foot"><a class="more" href="/boards/#g-BAL-CLE">Board →</a></div></article></div><p class="none allstarted" hidden>All kicked off.</p></section>
 <section class="sec" id="parlay"><h2 class="t">Best parlay</h2><div class="ptwo"><div class="parlay" data-gid="BAL-CLE" data-ko="1792342800000"><div class="phd"><small>Best same-game parlay</small><h3>BAL @ CLE <span>Sun 12:00 PM</span></h3><p>Built for the game's most likely script (BAL by 10+); the model gives the full slip <b>67%</b> against a FanDuel-equivalent price of <b>+122</b> (EV +49%).</p></div><ul class="plegs"><li><b>Zay Flowers</b><span>40+ receiving yards <small>-290</small></span><em>88%</em></li><li><b>Justice Hill</b><span>10+ rushing yards <small>-154</small></span><em>76%</em></li></ul><div class="pfoot"><a class="more" href="/boards/#g-BAL-CLE">Open the board →</a><a class="more" href="/build/#g-BAL-CLE">Edit in the builder →</a></div></div><div class="pothers"><a class="pmini" href="/boards/#g-KC-LAC" data-gid="KC-LAC" data-ko="1792355100000"><b>KC @ LAC</b><span>2 legs · +111</span><em>model 70% · EV +48%</em></a><a class="pmini" href="/boards/#g-ATL-CHI" data-gid="ATL-CHI" data-ko="1792342800000"><b>ATL @ CHI</b><span>2 legs · +142</span><em>model 58% · EV +39%</em></a><a class="pmini" href="/boards/#g-HOU-JAX" data-gid="HOU-JAX" data-ko="1792330200000"><b>HOU @ JAX</b><span>2 legs · -104</span><em>model 60% · EV +18%</em></a><a class="pmini" href="/boards/#g-SF-WAS" data-gid="SF-WAS" data-ko="1792455300000"><b>SF @ WAS</b><span>2 legs · +262</span><em>model 31% · EV +12%</em></a></div></div></section>

diff --git a/sw.js b/sw.js
@@ -1,6 +1,6 @@
 // BetSweep service worker: app shell cached for instant open; pages are network-first so the data is always this build's,
-// with the last good copy served when the connection drops (stadium wifi). Version: 202610171523
-var V = 'bs-202610171523', SHELL = ['/', '/boards/', '/build/', '/live/', '/team/', '/firsttd/', '/dfs/', '/receipts/', '/season/', '/offline.html', '/wordmark.png', '/wordmark-ink.png', '/favicon.png', '/app/icon-192.png'];
+// with the last good copy served when the connection drops (stadium wifi). Version: 202610171524
+var V = 'bs-202610171524', SHELL = ['/', '/boards/', '/build/', '/live/', '/team/', '/firsttd/', '/dfs/', '/receipts/', '/season/', '/offline.html', '/wordmark.png', '/wordmark-ink.png', '/favicon.png', '/app/icon-192.png'];
 self.addEventListener('install', function(e){ e.waitUntil(caches.open(V).then(function(c){ return Promise.all(SHELL.map(function(u){ return c.add(u).catch(function(){}); })); }).then(function(){ return self.skipWaiting(); })); });
 self.addEventListener('activate', function(e){ e.waitUntil(caches.keys().then(function(ks){ return Promise.all(ks.filter(function(k){ return k !== V; }).map(function(k){ return caches.delete(k); })); }).then(function(){ return self.clients.claim(); })); });
 self.addEventListener('fetch', function(e){
